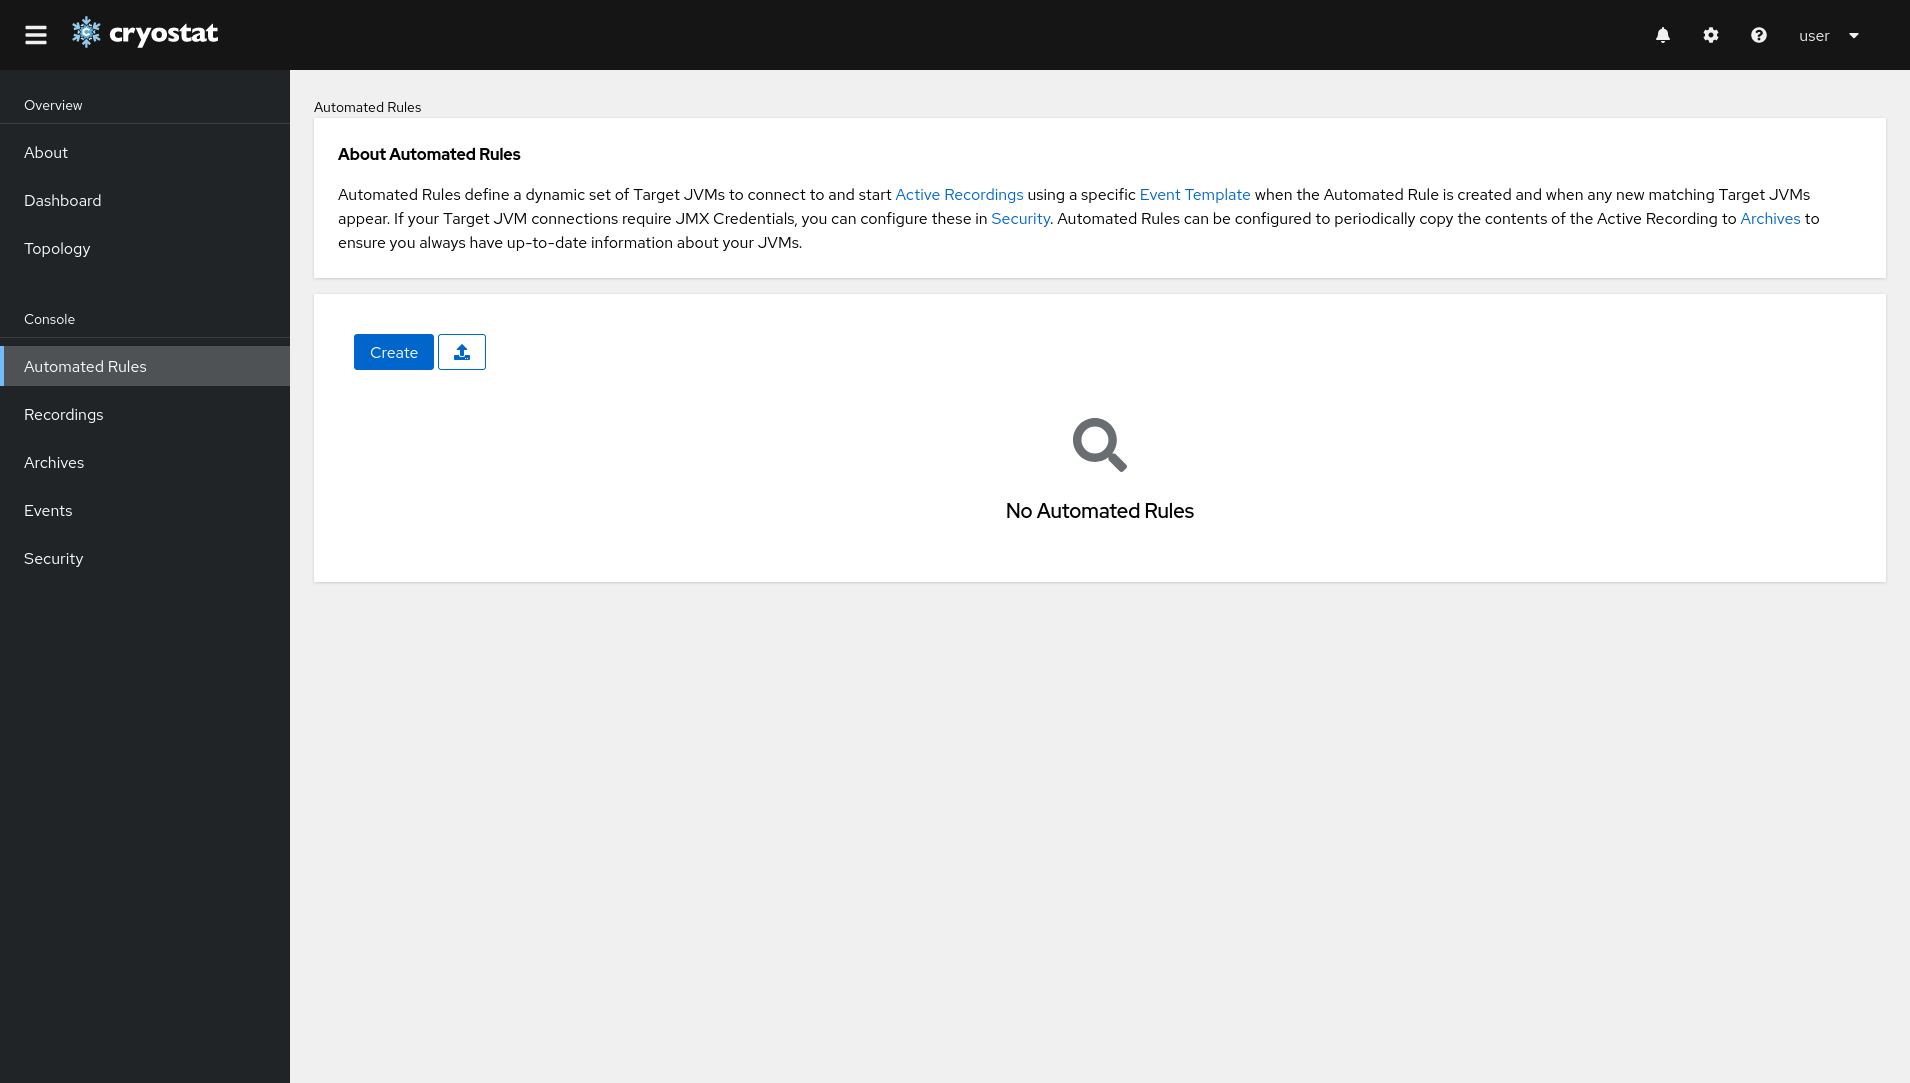
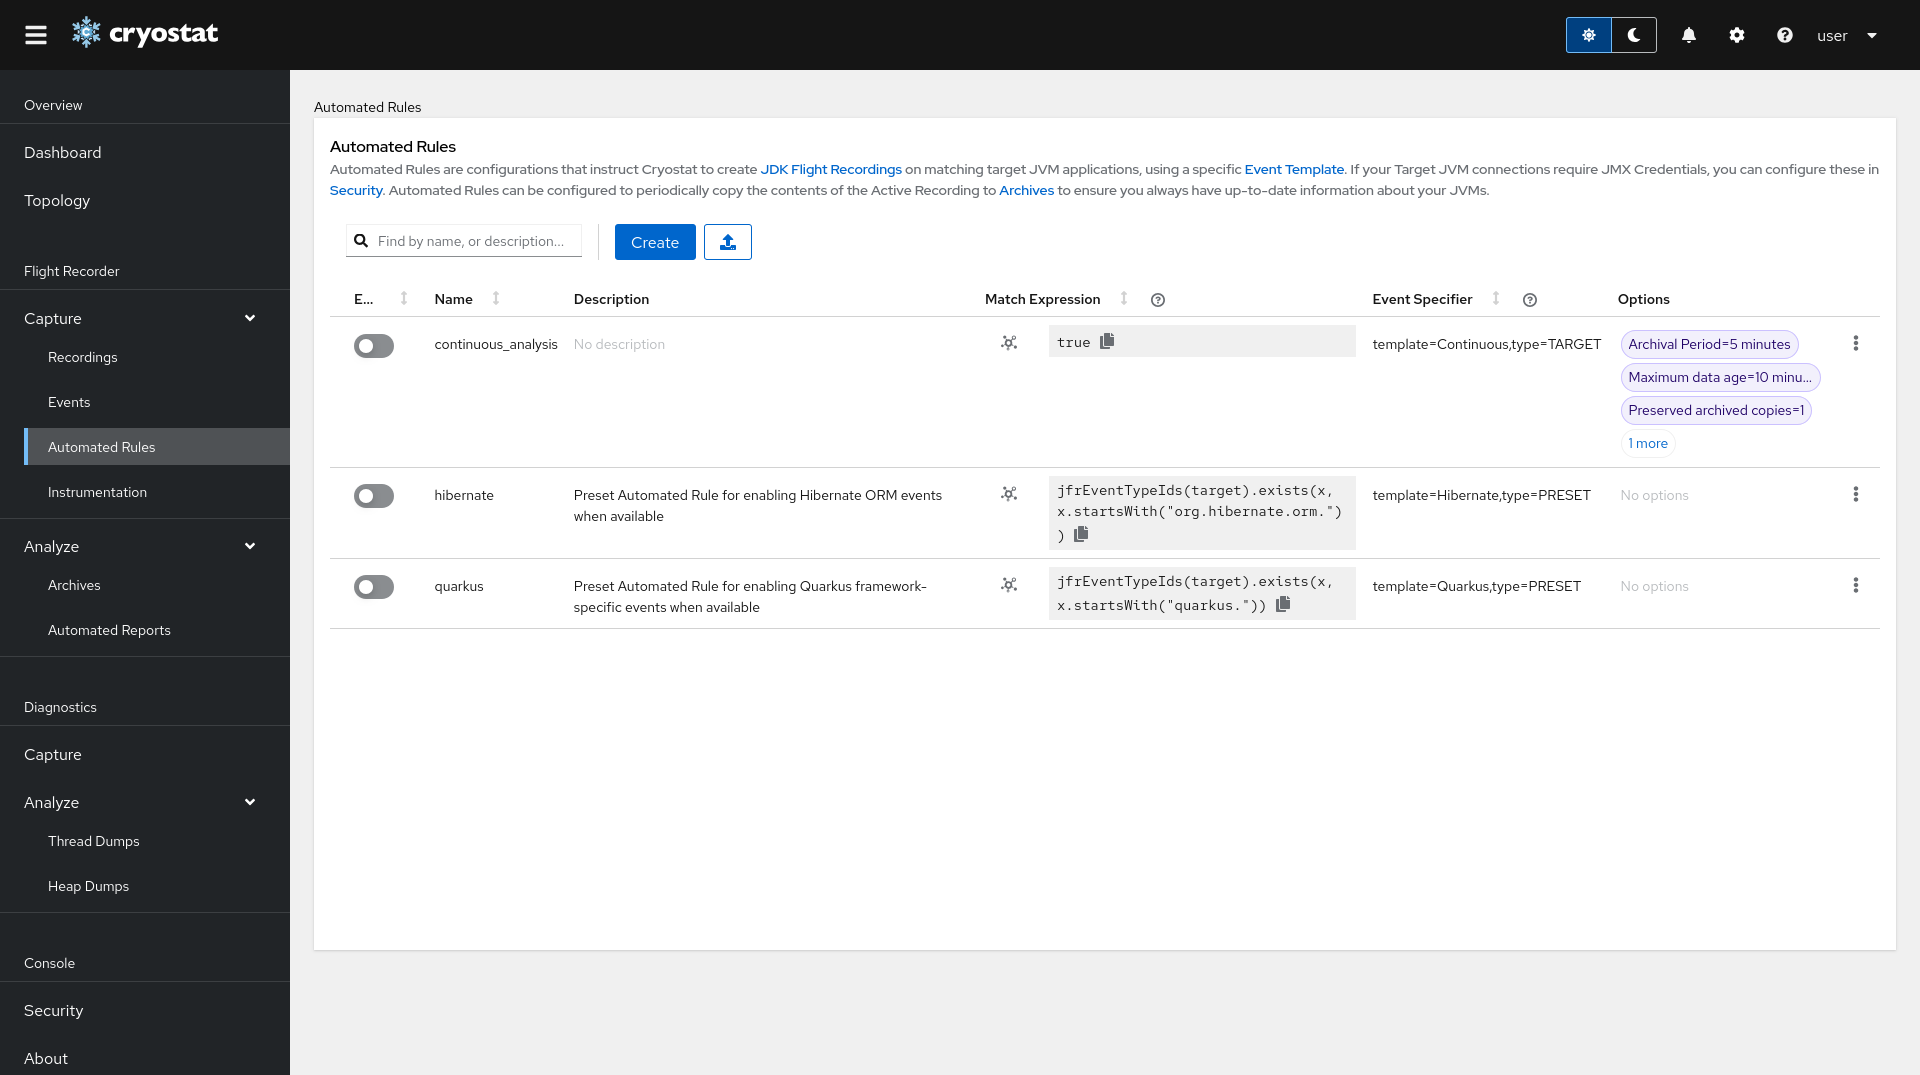
rules

diff --git a/guides/_subsections/create-an-automated-rule.md b/guides/_subsections/create-an-automated-rule.md
@@ -16,9 +16,8 @@ Previously, if we wanted to enable always-on `Continuous` monitoring using **JDK
 <ol>
   <li>
       {% include howto_step.html
-      summary="Navigate to the <i>Automated Rules</i> Tab"
+      summary="Navigate to the <i>Flight Recorder/Capture/Automated Rules</i> Tab"
       image-name="4.1.0/create-an-automated-rule-1.png"
-      caption="Switch to the <i>Automated Rules</i> tab."
     %}
   </li>
   <li>
@@ -155,13 +154,24 @@ jfrEventTypeIds(target).exists(t, t.startsWith('myorg.myapp.'))
         caption="
           Optionally set the <code>Recording</code> Options and <i>Rule Parameters.</i>"
         text="
-        <p><i>Maximum Size:</i> The maximum size of <code>Recording</code> data retained in the <code>target</code> application's recording buffer. Values less than 1 indicate no limit.</p>
-        <p><i>Maximum Age:</i> The maximum age of <code>Recording</code> data retained in the <code>target</code> application's recording buffer. Values less than 1 indicate no limit.</p>
-        <p><i>Archival Period:</i> Time between copies of <code>Active recording</code> data being pulled into <b>Cryostat</b> archive storage.
-        Values less than 1 prevent data from being copied into archives - <code>Recordings</code> will be started and remain only in <code>target</code> <b>JVM</b> memory.</p>
-        <p><i>Initial Delay:</i> Time between rule creation and when the first archived copy should be transferred. Values less than 1 are treated as being equal to the <i>Archival Period</i> above.</p>
-        <p><i>Preserved Archives:</i> The number of <code>Recording</code> copies to preserve in archives for each <code>target</code> application affected by this rule. Values less than 1 prevent data from being copied into archives - <code>Recordings</code> will be started and remain only in <code>target</code> <b>JVM</b> memory.</p>
-
+          <p>
+            <i>Automatically Analyze:</i> whether <a href='#view-automated-analysis-for-a-target'>automatic analysis</a> should be automatically performed on <code>Archived Recordings</code> collected by this <code>Automated Rule</code>.
+          </p>
+          <p>
+            <i>Maximum Size:</i> the (approximate) maximum size of Flight Recorder data which should be held in the <code>Active Recording</code> buffer by the <b>JVM</b>. If set to <code>0</code> the buffer size will be unlimited. Once the buffer is full, Flight Recorder will discard the oldest data to make space for new data.
+          </p>
+          <p>
+            <i>Maximum Age</i> the (approximate) maximum age of Flight Recorder events which should be held in the <code>Active Recording</code> buffer by the <b>JVM</b>. If set to <code>0</code> events will not be discarded due to age. Once the buffer is full, Flight Recorder will discard the oldest events to make space for new events.
+          </p>
+          <p>
+            <i>Archival Period:</i> how frequently this <code>Automated Rule</code> should copy <code>Active Recording</code> data into <a href='#viewing-archived-recordings'><code>Archives</code></a>. If set to <code>0</code> Cryostat will only start a new <code>Active Recording</code>, but will not periodically copy the data into storage.
+          </p>
+          <p>
+            <i>Initial Delay:</i> Time between rule creation and when the first archived copy should be transferred. If set to <code>0</code> then the first copy will occur at the <i>archival period</i> set above.
+          </p>
+          <p>
+            <i>Preserved Archives:</i> The number of <code>Recording</code> copies to preserve in archives for each <code>target</code> application affected by this rule. If set to <code>0</code> data will never be copied to <code>Archives</code> - <code>Recordings</code> will be started and remain only in <code>target</code> <b>JVM</b> memory.
+          </p>
         <p>In the example image, the <i>Maximum Recording</i> age was set to 300 seconds and the <i>Archival Period</i> was set to a slightly shorter time period of 285 seconds. This overlap ensures that all of your <code>Flight Recorder</code> data is preserved in <b>Cryostat's</b> archives. The initial delay is set to 60 seconds however, so the first archive copy will be made 1 minute after the rule is created. The next copy will be made 5 minutes after that, the next another 5 minute later, etc.</p>
         "
       %}

diff --git a/guides/_subsections/upload-an-automated-rule.md b/guides/_subsections/upload-an-automated-rule.md
@@ -22,9 +22,17 @@ Below is an example of a rule file content:
 <ol>
   <li>
       {% include howto_step.html
-        summary="Open <i>Automated Rules</i> upload Prompt"
+      summary="Navigate to the <i>Flight Recorder/Capture/Automated Rules</i> Tab"
+      image-name="4.1.0/create-an-automated-rule-1.png"
+    %}
+  </li>
+  <li>
+    <summary>Click the <i>Upload</i> toolbar button</summary>
+  </li>
+  <li>
+      {% include howto_step.html
+        summary="Open <i>Automated Rules</i> upload modal"
         image-name="4.1.0/upload-an-automated-rule-1.png"
-        caption="Click on <i>Upload Icon</i> button to open upload prompt."
       %}
   </li>
   <li>
